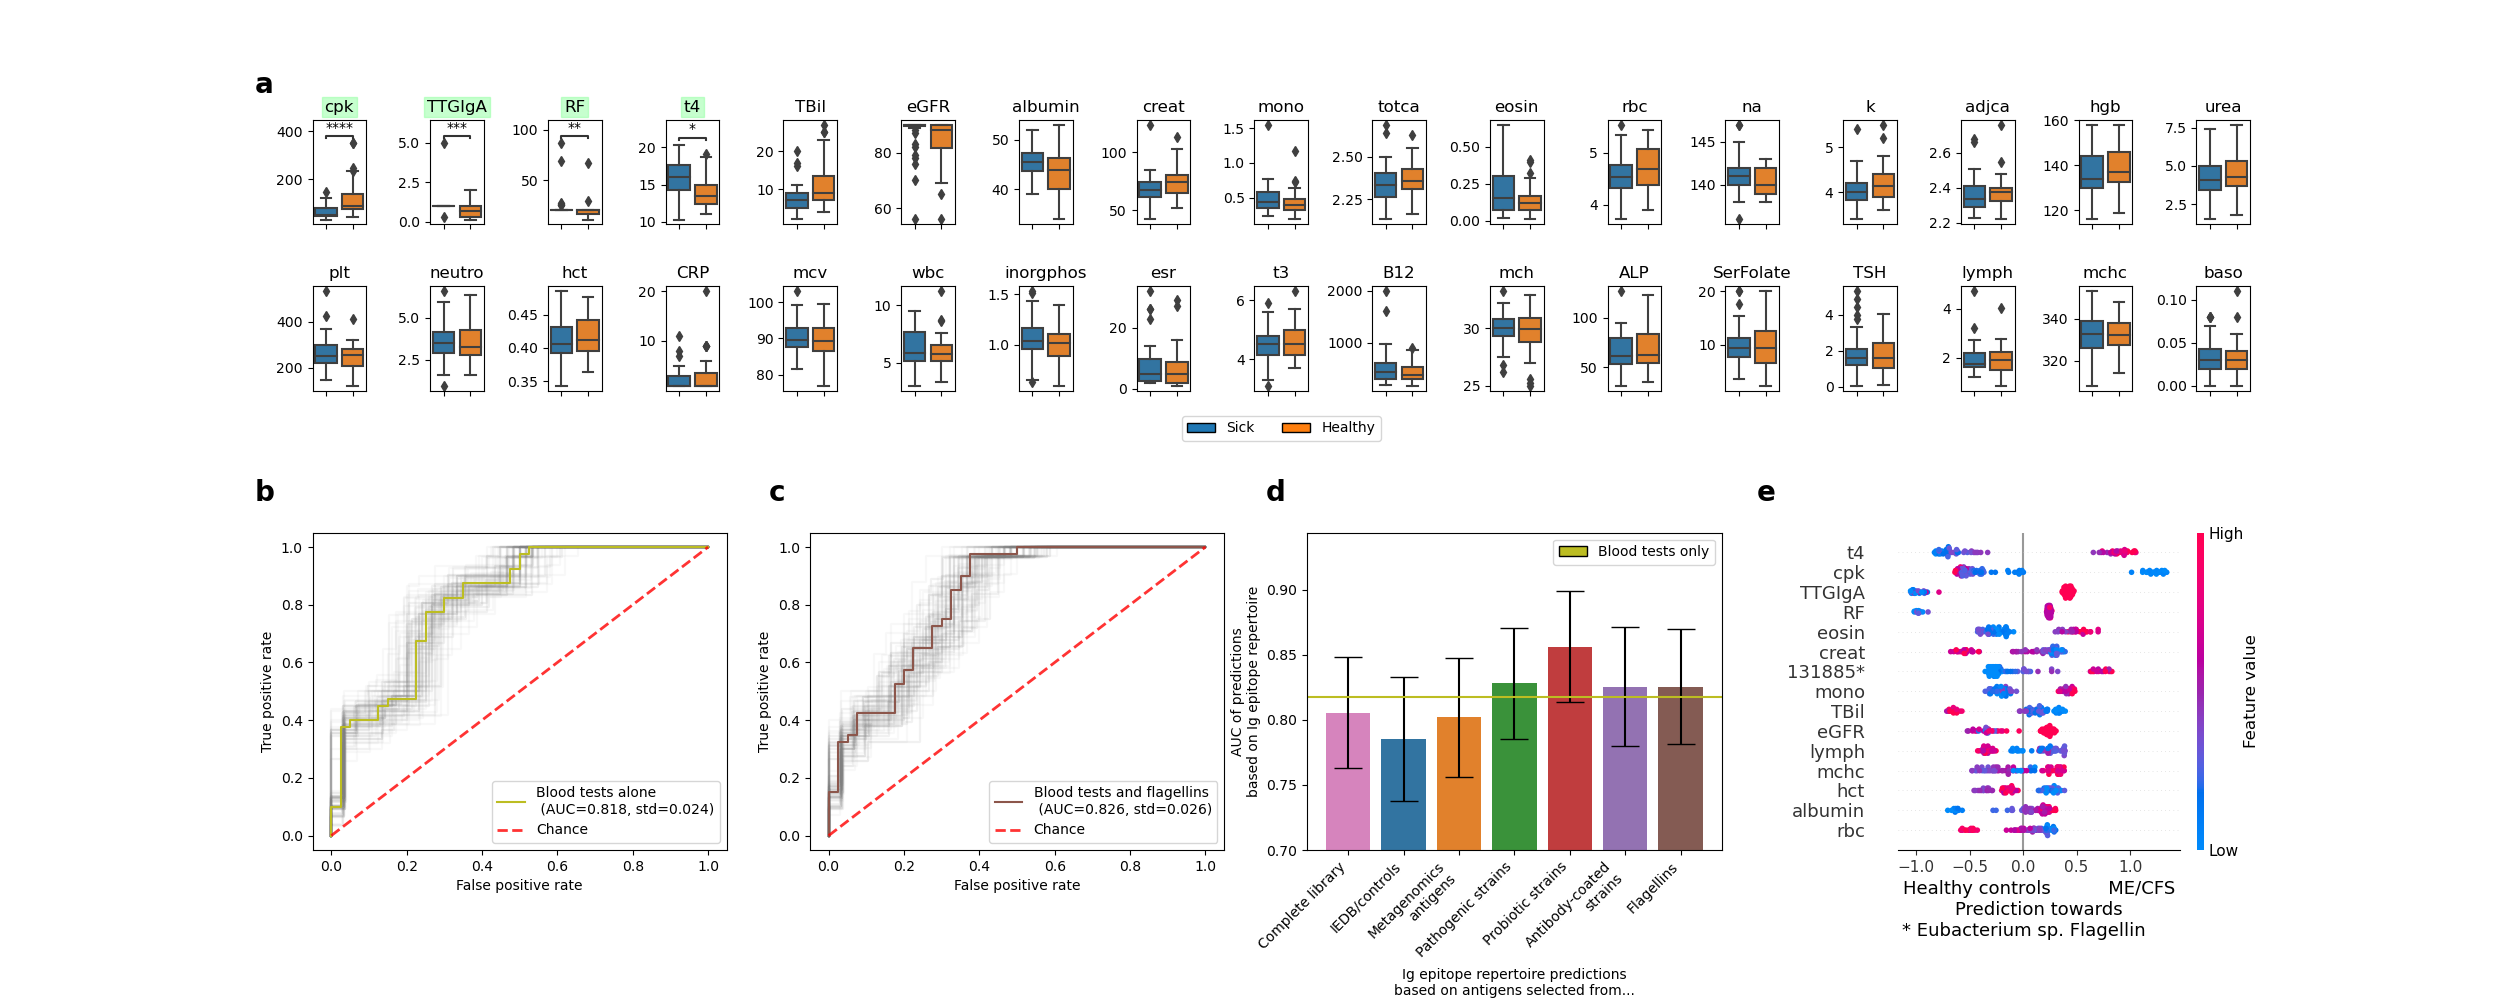
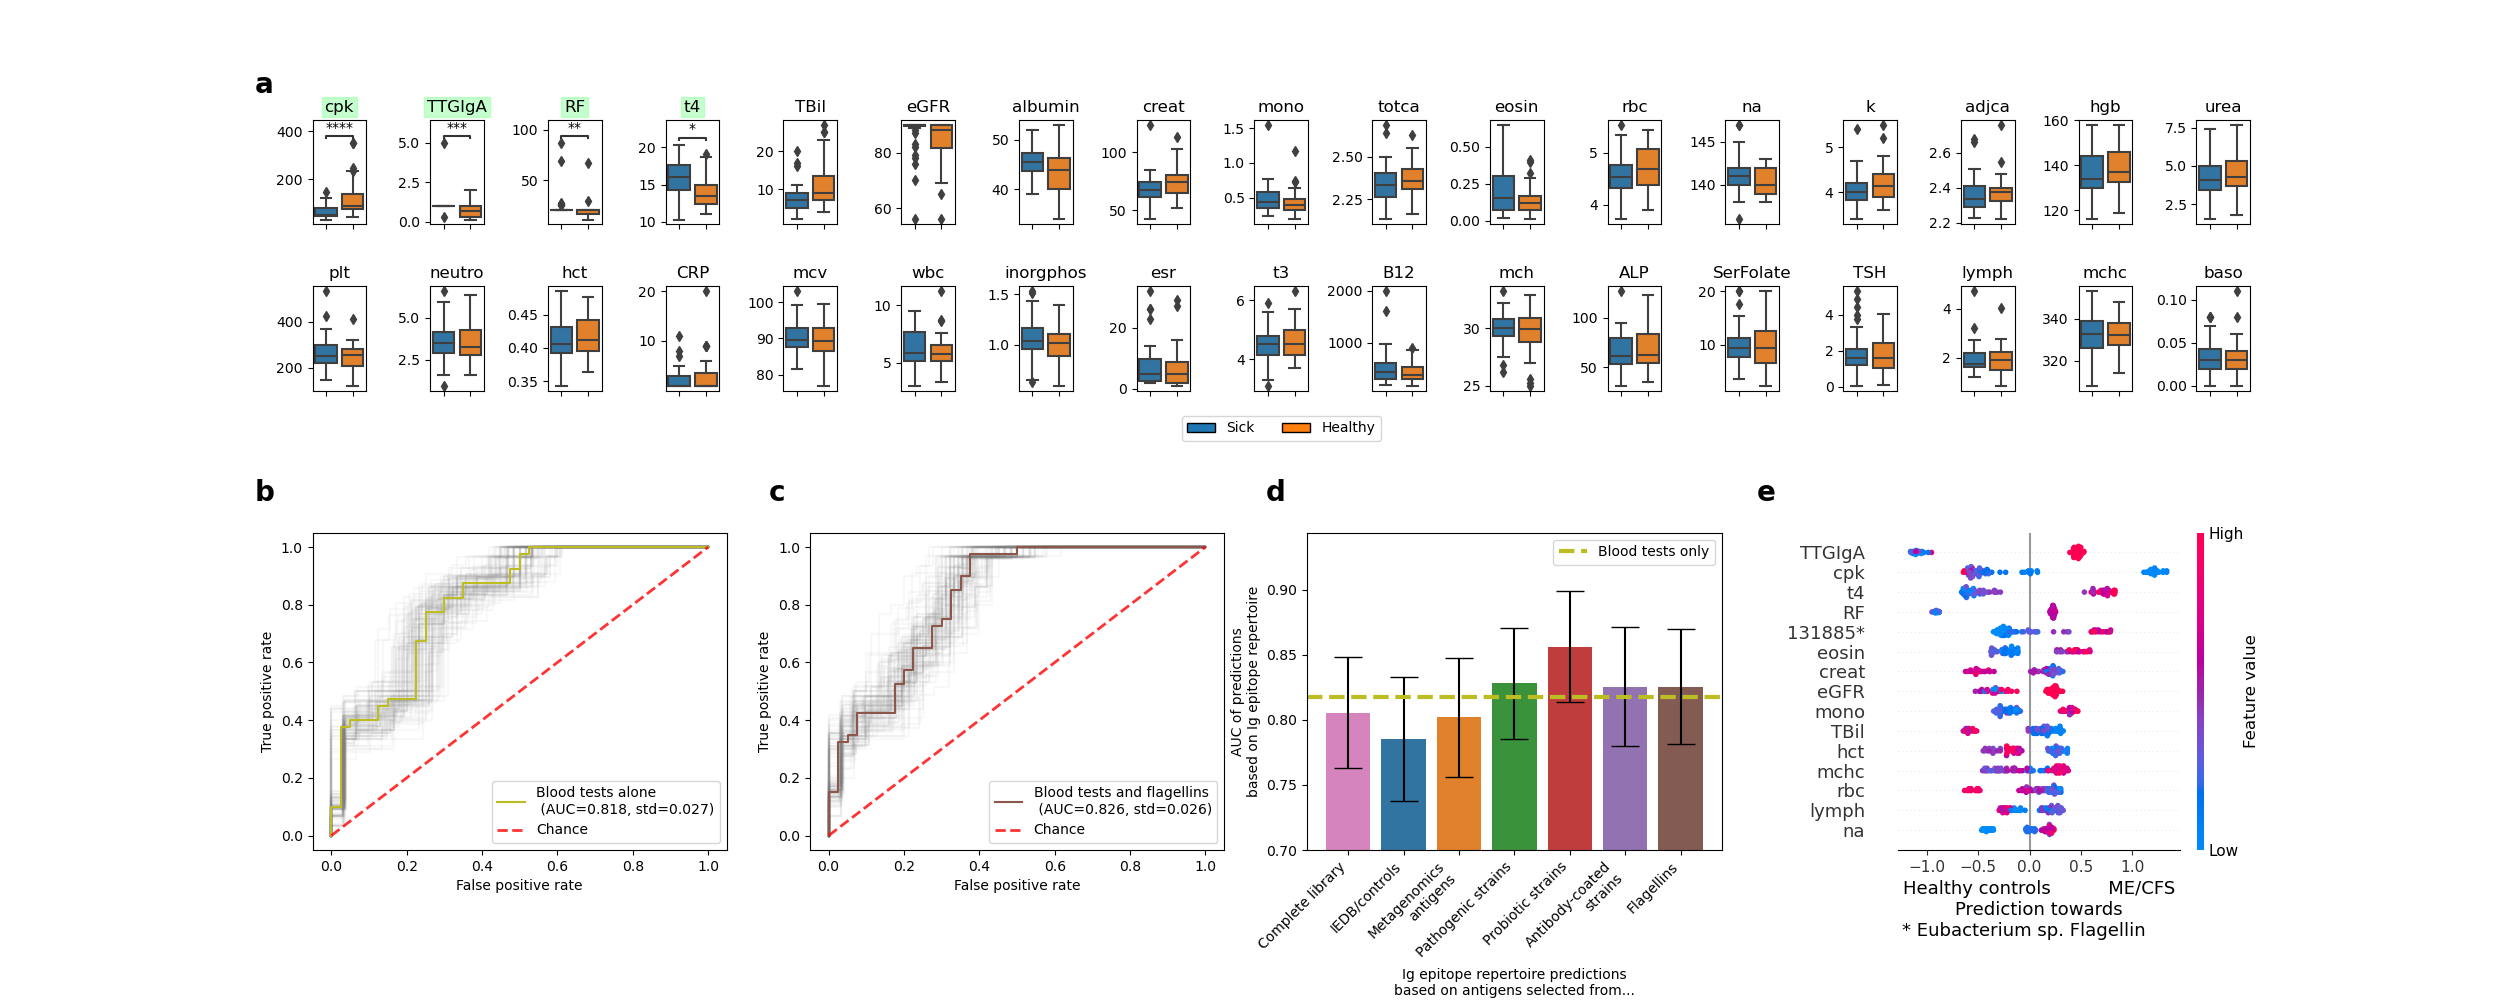
changing figures 5 bloodtests

diff --git a/PhageIPSeq_CFS/Figures_scripts/figure_4.py b/PhageIPSeq_CFS/Figures_scripts/figure_4.py
@@ -82,7 +82,7 @@ if __name__ == "__main__":
         blood_tests_only_auc_results = dict(zip(['auc_value', 'fprs', 'tprs'],
                                                 compute_auc_from_prediction_results(prediction_results,
                                                                                     return_fprs_tprs=True)))
-        blood_tests_only_color = sns.color_palette()[len(oligo_order) + 1]
+        blood_tests_only_color = sns.color_palette()[len(oligo_order) + 1] # '#96971b'
         blood_test_auc_std, blood_test_auc = create_auc_with_bootstrap_figure(
             num_confidence_intervals_repeats=num_auc_repeats, x=x, y=y,
             predictor_class=estimator_info['predictor_class'], ax=ax, color=blood_tests_only_color,
@@ -120,7 +120,6 @@ if __name__ == "__main__":
 
         # Summary of results
         ax = fig.add_subplot(internal_spec[2])
-        ax.axhline(y=blood_test_auc, color=blood_tests_only_color, linestyle='-')
         # Adding CI of blood tests only
         best_auc_df = df.stack(level=0).reset_index().sort_values(by='auc', ascending=False).groupby(
             'subgroup').first().reset_index()
@@ -138,8 +137,11 @@ if __name__ == "__main__":
         ax.errorbar(**params)
         ax.set_ylim(bottom=0.7)
         ax.set_xticklabels(ax.get_xticklabels(), rotation=45, ha='right')
-        ax.legend(
-            handles=[mpatches.Patch(facecolor=blood_tests_only_color, label='Blood tests only', edgecolor='black')])
+        ax.axhline(y=blood_test_auc, color=blood_tests_only_color, linestyle='--', linewidth=3, label='Blood tests only')
+
+        # ax.legend(
+        #     handles=[mpatches.Patch(facecolor=blood_tests_only_color, label='Blood tests only', edgecolor='black')])
+        ax.legend()
         ax.set_xlabel("Ig epitope repertoire predictions\nbased on antigens selected from...")
         ax.set_ylabel('AUC of predictions\nbased on Ig epitope repertoire')
         ax.text(-0.1, 1.1, string.ascii_lowercase[3], transform=ax.transAxes, size=20, weight='bold')
